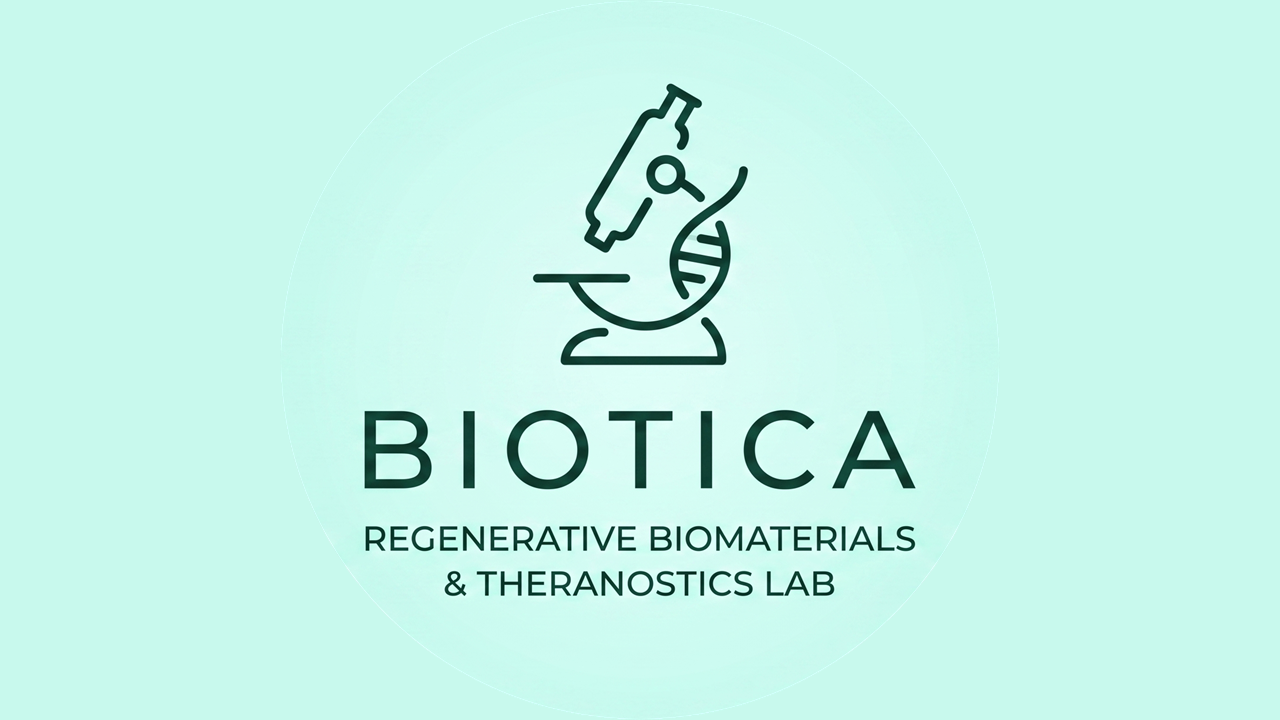
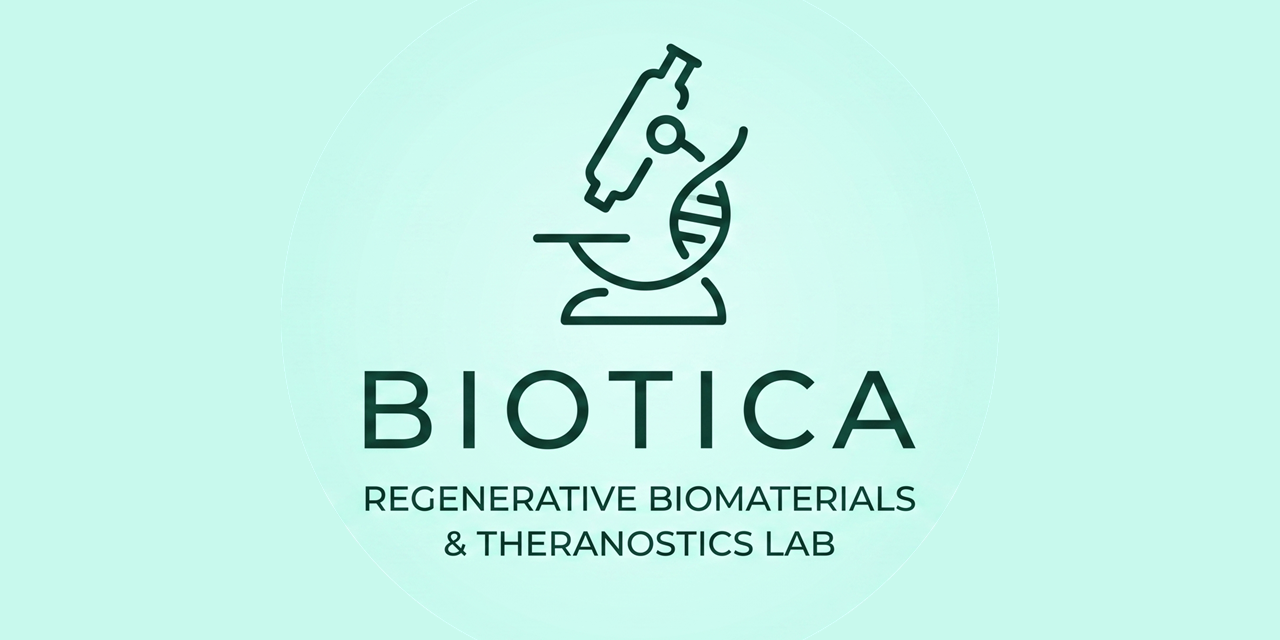
Deploying to gh-pages from @ bioticaresearchgroup/RBTLab@7ca1e55a73951e900420fdee54105d6d030186e9 🚀

Changed region(s): [[0.2812, 0.5625, 0.7188, 0.875], [0.4062, 0.0625, 0.5938, 0.5]]

diff --git a/2019/01/07/example-post-1.html b/2019/01/07/example-post-1.html
@@ -72,10 +72,10 @@
 
   <meta name="author" content="sarah-johnson">
   <meta property="og:type" content="article">
-  <meta property="og:updated_time" content="2026-06-29T10:49:54+00:00">
+  <meta property="og:updated_time" content="2026-06-29T10:54:49+00:00">
   <meta property="article:published_time" content="2019-01-07T00:00:00+00:00">
-  <meta property="article:modified_time" content="2026-06-29T10:49:54+00:00">
-  <meta name="revised" content="2026-06-29T10:49:54+00:00">
+  <meta property="article:modified_time" content="2026-06-29T10:54:49+00:00">
+  <meta name="revised" content="2026-06-29T10:54:49+00:00">
 
 
 <script type="application/ld+json">
@@ -85,7 +85,7 @@
       "@type": "BlogPosting",
       "author": { "@type": "Person", "name": "Example post 1" },
       "datePublished": "2019-01-07T00:00:00+00:00",
-      "dateModified": "2026-06-29T10:49:54+00:00",
+      "dateModified": "2026-06-29T10:54:49+00:00",
     
     "name": "Example post 1",
     "description": "At Prof. G.S. Sailaja&apos;s lab, we are dedicated to pushing the boundaries of biomedical materials science to address critical healthcare challenges. Our research program thrives on an interdisciplinary approach, seamlessly integrating expertise in biomaterials, nanomedicine, and theranostics.An engaging 1-3 sentence description of your lab.",

diff --git a/2021/09/30/example-post-2.html b/2021/09/30/example-post-2.html
@@ -72,10 +72,10 @@
 
   <meta name="author" content="jane-smith">
   <meta property="og:type" content="article">
-  <meta property="og:updated_time" content="2026-06-29T10:49:54+00:00">
+  <meta property="og:updated_time" content="2026-06-29T10:54:49+00:00">
   <meta property="article:published_time" content="2021-09-30T00:00:00+00:00">
-  <meta property="article:modified_time" content="2026-06-29T10:49:54+00:00">
-  <meta name="revised" content="2026-06-29T10:49:54+00:00">
+  <meta property="article:modified_time" content="2026-06-29T10:54:49+00:00">
+  <meta name="revised" content="2026-06-29T10:54:49+00:00">
 
 
 <script type="application/ld+json">
@@ -85,7 +85,7 @@
       "@type": "BlogPosting",
       "author": { "@type": "Person", "name": "Example post 2" },
       "datePublished": "2021-09-30T00:00:00+00:00",
-      "dateModified": "2026-06-29T10:49:54+00:00",
+      "dateModified": "2026-06-29T10:54:49+00:00",
     
     "name": "Example post 2",
     "description": "At Prof. G.S. Sailaja&apos;s lab, we are dedicated to pushing the boundaries of biomedical materials science to address critical healthcare challenges. Our research program thrives on an interdisciplinary approach, seamlessly integrating expertise in biomaterials, nanomedicine, and theranostics.An engaging 1-3 sentence description of your lab.",

diff --git a/2023/02/23/example-post-3.html b/2023/02/23/example-post-3.html
@@ -72,10 +72,10 @@
 
   <meta name="author" content="john-doe">
   <meta property="og:type" content="article">
-  <meta property="og:updated_time" content="2026-06-29T10:49:54+00:00">
+  <meta property="og:updated_time" content="2026-06-29T10:54:49+00:00">
   <meta property="article:published_time" content="2023-02-23T00:00:00+00:00">
-  <meta property="article:modified_time" content="2026-06-29T10:49:54+00:00">
-  <meta name="revised" content="2026-06-29T10:49:54+00:00">
+  <meta property="article:modified_time" content="2026-06-29T10:54:49+00:00">
+  <meta name="revised" content="2026-06-29T10:54:49+00:00">
 
 
 <script type="application/ld+json">
@@ -85,7 +85,7 @@
       "@type": "BlogPosting",
       "author": { "@type": "Person", "name": "Example post 3" },
       "datePublished": "2023-02-23T00:00:00+00:00",
-      "dateModified": "2026-06-29T10:49:54+00:00",
+      "dateModified": "2026-06-29T10:54:49+00:00",
     
     "name": "Example post 3",
     "description": "At Prof. G.S. Sailaja&apos;s lab, we are dedicated to pushing the boundaries of biomedical materials science to address critical healthcare challenges. Our research program thrives on an interdisciplinary approach, seamlessly integrating expertise in biomaterials, nanomedicine, and theranostics.An engaging 1-3 sentence description of your lab.",